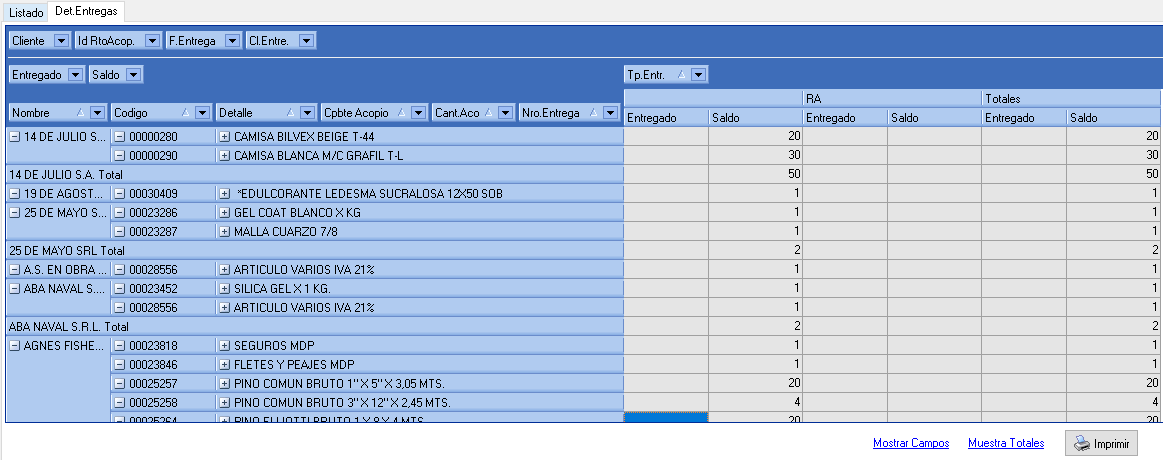
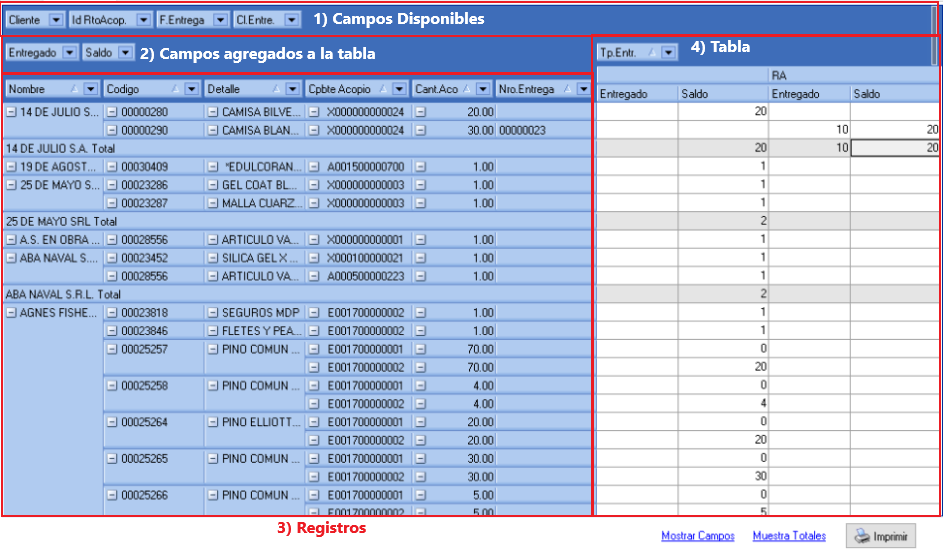
Agregada seccion de pedidos sin facturar

diff --git a/index.html b/index.html
@@ -451,12 +451,12 @@
               <li class="nav-item"><a class="nav-link text-2" href="#man_acopio_mercaderia">Acopio de Mercadería</a></li>
               <li class="nav-item"><a class="nav-link text-2" href="#man_panel_acopios">Panel de Acopio</a></li>
               <li class="nav-item"><a class="nav-link text-2" href="#man_consolidacion_acopios">Consolidación de Acopios</a></li>
-              <li class="nav-item"><a class="nav-link text-2" href="#man_entrega_mercaderia">Entregar Mercadería en Acopio</a></li>
+              <li class="nav-item"><a class="nav-link text-2" href="#man_entregar_acopiada">Entregar Mercadería en Acopio</a></li>
               <li class="nav-item"><a class="nav-link text-2" href="#man_listados_acopios">Listados de Acopios</a>
                 <ul class="nav flex-column text-2">
                   <li class="nav-item"><a class="nav-link text-2" href="#man_entregas_acopios">Entregas de Acopios</a></li>
                   <li class="nav-item"><a class="nav-link text-2" href="#man_mercaderia_acopio">Mercadería en Acopio</a></li>
-                  <li class="nav-item"><a class="nav-link text-2" href="#man_ctacte_acopio">Cuenta Corriente de Acopios</a></li>
+                  <li class="nav-item"><a class="nav-link text-2" href="#man_ctacte_acopios">Cuenta Corriente de Acopios</a></li>
                 </ul>
               </li>
             </ul>
@@ -6925,10 +6925,55 @@
 
             <p>Se encuentra dentro de la sección Listados de Acopios, botón "Listado Entrega de Acopios".</p>
 
-            <p><img class="img-fluid border" src="assets/images/Acopios/" alt=""></p>
-
             <p><a class="popup-img" href="assets/images/Acopios/Listado Entregas de Acopios.png"><img class="img-fluid border"
                   src="assets/images/Acopios/Listado Entregas de Acopios.png" alt=""></a></p>
+
+            <p>
+              En esta ventana, se listan todos los acopios que estén marcados como "Cumplido". Haciendo doble click sobre 
+              uno de estos registros, se abrirá la ventana correspondiente de consulta de acopio. Presionando Imprimir se generará 
+              un reporte de este listado.
+            </p>
+
+            <p><u>Lista detallada</u></p>
+            <p><a class="popup-img" href="assets/images/Acopios/Listado Entregas de Acopios - Detalle.png"><img class="img-fluid border"
+              src="assets/images/Acopios/Listado Entregas de Acopios - Detalle.png" alt=""></a></p>
+            <p>
+              En esta pantalla, podemos observar un listado personalizable como hemos visto en otras características:
+            </p>
+            <ol>
+              <li><b>Campos disponibles</b>: Haciendo click en la etiqueta "Mostrar Campos", se abrirá está sección de la ventana 
+                donde veremos los campos que todavía no están en uso. Pueden ser arrastrados a cualquierda de las otras tres secciones.
+              </li>
+              <li><b>Campos agregados a la tabla</b>: Campos que aparecen en la tabla. Intercambiando los lugares de los campos también modificamos el orden en que se muestran.</li>
+              <li><b>Registros en la tabla</b>: Muestra los registros de entregas de acopios que se verán en la tabla. Haciendo click en la flecha
+                 hacia abajo en alguno de los campos, podremos especificar qué items se mostrarán en la tabla. <br>
+                 Agregando campos en esta sección, podremos agrupar y ordenar los ítems.
+                </li>
+              <li><b>Tabla</b>: en esta sección es donde finalmente visualizamos la tabla con los totales de los artículos vendidos.
+                 De la misma forma que en el resto de las secciones, podemos agregar campos. Las primeras dos columnas muestran el saldo en el acopio, 
+                 mientras que las otras dos muestran el saldo en remitos de acopio (RA).
+              </li>
+            </ol>
+
+            <p>
+              Haciendo click en la etiqueta "Muestra Totales", podremos personalizar qué totales ver en la tabla:
+            </p>
+            <ul>
+              <li><u>Total General Columnas</u>:
+                <p><img class="img-fluid border" src="assets/images/General/Listado Detallada - Total Gen Col.png" alt=""></p>
+              </li>
+              <li><u>Totales por Columnas</u>:
+                <p><img class="img-fluid border" src="assets/images/General/Listado Detallada - Total por Col.png" alt=""></p>
+              </li>
+              <li><u>Total General Linea</u>:
+                <p><img class="img-fluid border" src="assets/images/General/Lista Detallada - Total Gen por Linea.png" alt=""></p>
+              </li>
+              <li><u>Totales por Linea</u>:
+                <p><img class="img-fluid border" src="assets/images/General/Lista Detallada - Total por Linea.png" alt=""></p>
+              </li>
+            </ul>
+
+            <p>Finalmente, podemos presionar el botón Imprimir a la derecha para generar un reporte de este listado.</p>
           </section>
 
           <hr class="divider"> 
@@ -6938,12 +6983,19 @@
           <section id="man_mercaderia_acopio">
             <h4>Mercadería en Acopio</h4>
 
-            <p>Se encuentra dentro de la sección Listados de Acopios, botón "Listado de Acopios".</p>
-
-            <p><img class="img-fluid border" src="assets/images/Acopios/" alt=""></p>
+            <p>
+              Se encuentra dentro de la sección Listados de Acopios, botón "Listado de Acopios". Presione el botón buscar para listar 
+              generar un listado de los acopios de los clientes.
+            </p>
 
             <p><a class="popup-img" href="assets/images/Acopios/Mercaderia en Acopio.png"><img class="img-fluid border"
                   src="assets/images/Acopios/Mercaderia en Acopio.png" alt=""></a></p>
+
+            <p>
+              Con el botón "Exportar XLS" podemos crear una planilla de cálculo Excel con el listado, y con el botón "Imprimir" 
+              generamos un reporte.
+            </p>
+            
           </section>
 
           <hr class="divider"> 
@@ -6953,12 +7005,18 @@
           <section id="man_ctacte_acopios">
             <h4>Cuenta Corriente de Acopios</h4>
 
-            <p>Se encuentra dentro de la sección Listados de Acopios, botón "Cta. Cte. Acopio".</p>
-
-            <p><img class="img-fluid border" src="assets/images/Acopios/" alt=""></p>
+            <p>
+              Se encuentra dentro de la sección Listados de Acopios, botón "Cta. Cte. Acopio". Presione Buscar 
+              para generar un listado con las cuentas corrientes de los clientes relacionadas con sus acopios de mercadería.
+            </p>
 
             <p><a class="popup-img" href="assets/images/Acopios/Cuenta Corriente Acopio.png"><img class="img-fluid border"
                   src="assets/images/Acopios/Cuenta Corriente Acopio.png" alt=""></a></p>
+
+            <p>
+              Presione "Imprimir" para generar un reporte o "Exportar" para crear una planilla de cálculo Excel con la tabla.
+            </p>
+            
           </section>
 
           <hr class="divider"> 
